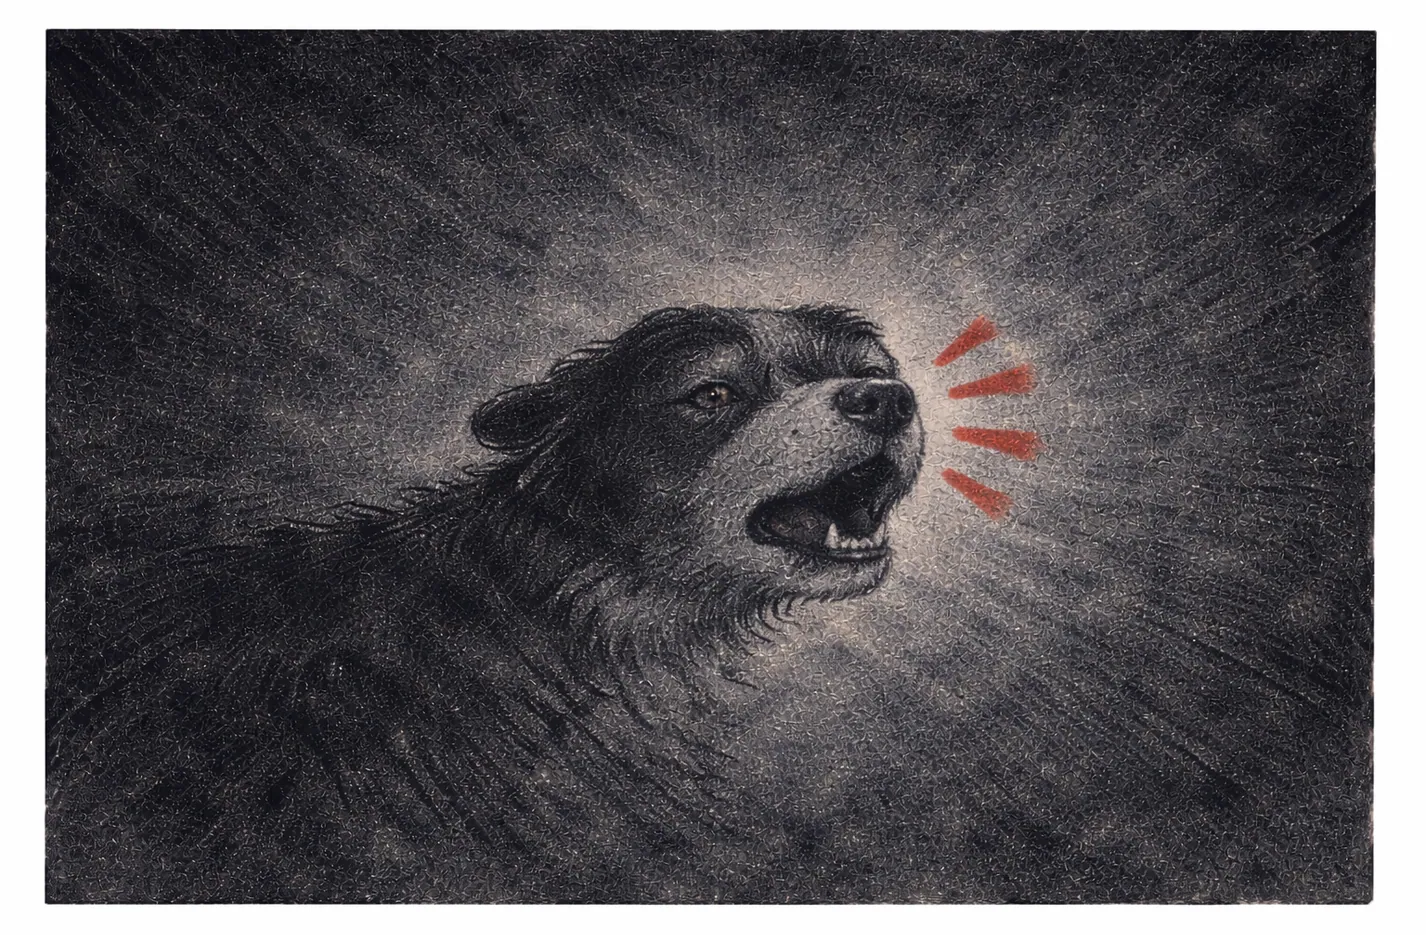
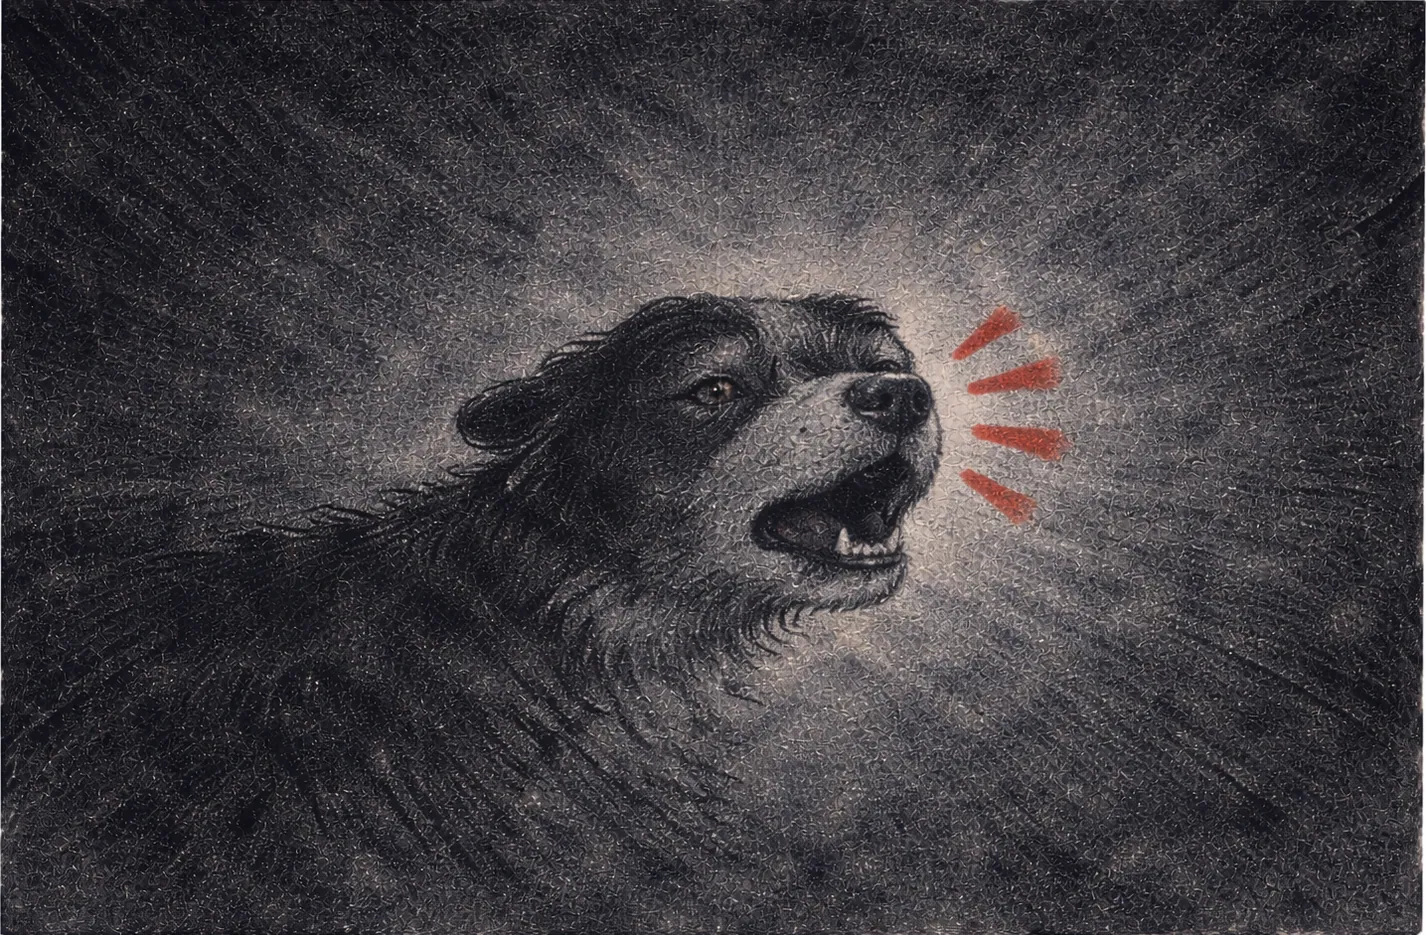
Red Cross animation: 14-frame sequences, border trim, caption placement
- Dog/Granny frames: trim the white border (sharp .trim) then crop to 1426x935
- sequence now runs 14 frames: 11 storyboard shots + closing tagline (new
  landscape art: Dogtaglinenew / GrannyTaglinenew) + 'switch to a bed shaker'
  CTA + #SignTheAlarm end card. Bedshaker keeps its tagline, adds the two new
  closing frames. import-assets.mjs gained trim + per-job extra[] frames
- removed the separate final-tagline image box; it's part of the sequence now
- the under-frame active-beat strip is mobile-only (<=820px); the side list
  covers desktop
- social caption moved directly under the storyboard list

diff --git a/src/routes/caseStudies.ts b/src/routes/caseStudies.ts
@@ -399,7 +399,7 @@ export const CASE_STUDIES: Record<string, CaseStudy> = {
       },
       animationSeries: {
         title: 'Animation series',
-        lead: 'Three thirty-second spots. Pick a beat to jump the frame, or step through. Each spot ends on its own tagline and carries its own caption.',
+        lead: 'Three thirty-second spots. Pick a beat to jump the frame, or step through. Each sequence runs to its tagline, a call to action, and the campaign end card.',
         tabs: [
           {
             key: 'dog',
@@ -418,9 +418,11 @@ export const CASE_STUDIES: Record<string, CaseStudy> = {
               'Steve is starting to wake up as the dog continues to nudge him',
               "Steve is sitting up in bed, awakened by the dog, realising there's a fire",
               'Steve and the dog are running out of the room',
+              'Closing tagline: your dog waits for you',
+              'Call to action: switch to a bed shaker',
+              'End card: #SignTheAlarm',
             ],
-            frames: frames('/works/redcross/dog', 11),
-            taglineImage: '/works/redcross/dog/tagline.webp',
+            frames: frames('/works/redcross/dog', 14),
             caption:
               '#SignTheAlarm Fire damage goes beyond flames. Request a bed shaker alarm installed and provided by the Red Cross to ensure your safety. Learn more and request yours by clicking the link in our bio.',
           },
@@ -441,9 +443,11 @@ export const CASE_STUDIES: Record<string, CaseStudy> = {
               'Jane signs to Granny, "fire, fire"',
               'Granny is awake, shocked by the fire',
               'Granny and Jane quickly exit the room',
+              'Closing tagline: when you are asleep, so is your sense of smell',
+              'Call to action: switch to a bed shaker',
+              'End card: #SignTheAlarm',
             ],
-            frames: frames('/works/redcross/granny', 11),
-            taglineImage: '/works/redcross/granny/tagline.webp',
+            frames: frames('/works/redcross/granny', 14),
             caption:
               "#SignTheAlarm Fire doesn't discriminate, and neither should someone's alarm. Consider volunteering with the Red Cross and be part of installing bed shaker alarms for people in your community. Visit the link in our bio for details.",
           },
@@ -464,9 +468,11 @@ export const CASE_STUDIES: Record<string, CaseStudy> = {
               'The bed shaker activates and Jenny wakes from the shaking of the bed',
               'A close-up of the bed shaker, emphasising the movement',
               'Jenny is out of bed, exiting the room quickly',
+              'Closing tagline: a bed shaker is your only warning',
+              'Call to action: switch to a bed shaker',
+              'End card: #SignTheAlarm',
             ],
-            frames: frames('/works/redcross/bedshaker', 11),
-            taglineImage: '/works/redcross/bedshaker/tagline.webp',
+            frames: frames('/works/redcross/bedshaker', 14),
             caption:
               '#SignTheAlarm The speed of fire is unpredictable. Learn how to protect your home and loved ones with fire safety resources from the Red Cross. Stay informed and stay safe. Find out more at the link in our bio.',
           },

diff --git a/src/components/AnimationSeries/AnimationSeries.tsx b/src/components/AnimationSeries/AnimationSeries.tsx
@@ -9,7 +9,6 @@ export type AnimTab = {
   desc: string
   beats: string[]
   frames: string[]
-  taglineImage: string
   caption: string
 }
 
@@ -68,6 +67,11 @@ export default function AnimationSeries({ tabs }: { tabs: AnimTab[] }) {
               </li>
             ))}
           </ol>
+
+          <div className={s.caption}>
+            <span className={s.captionTag}>{tab.label} caption</span>
+            <p>{tab.caption}</p>
+          </div>
         </div>
 
         <div className={s.visuals}>
@@ -109,21 +113,6 @@ export default function AnimationSeries({ tabs }: { tabs: AnimTab[] }) {
                 ›
               </button>
             </div>
-          </div>
-
-          <figure className={s.endCard}>
-            <figcaption>Final tagline</figcaption>
-            <img
-              src={tab.taglineImage}
-              alt={`${tab.label} animation end card`}
-              loading="lazy"
-              decoding="async"
-            />
-          </figure>
-
-          <div className={s.caption}>
-            <span className={s.captionTag}>{tab.label} caption</span>
-            <p>{tab.caption}</p>
           </div>
         </div>
       </div>

diff --git a/src/components/AnimationSeries/AnimationSeries.module.css b/src/components/AnimationSeries/AnimationSeries.module.css
@@ -134,6 +134,12 @@
   gap: 0.6rem;
   align-items: baseline;
 }
+/* the side list already shows the beat on desktop */
+@media (min-width: 821px) {
+  .frameBeat {
+    display: none;
+  }
+}
 .frameBeatNo {
   font-family: var(--font-mono);
   font-size: 0.68rem;
@@ -173,30 +179,8 @@
   color: var(--ink-dim);
 }
 
-.endCard {
-  margin: 0;
-  display: flex;
-  flex-direction: column;
-  gap: 0.5rem;
-  align-items: flex-start;
-}
-.endCard figcaption {
-  font-family: var(--font-mono);
-  font-size: 0.64rem;
-  letter-spacing: 0.16em;
-  text-transform: uppercase;
-  color: var(--ink-dim);
-}
-.endCard img {
-  width: 100%;
-  max-width: 360px;
-  height: auto;
-  display: block;
-  border: 1px solid var(--ink-soft);
-  background: var(--ground);
-}
-
 .caption {
+  margin-top: 1.4rem;
   border: 1px solid var(--ink-soft);
   padding: 1rem 1.1rem;
   display: flex;
